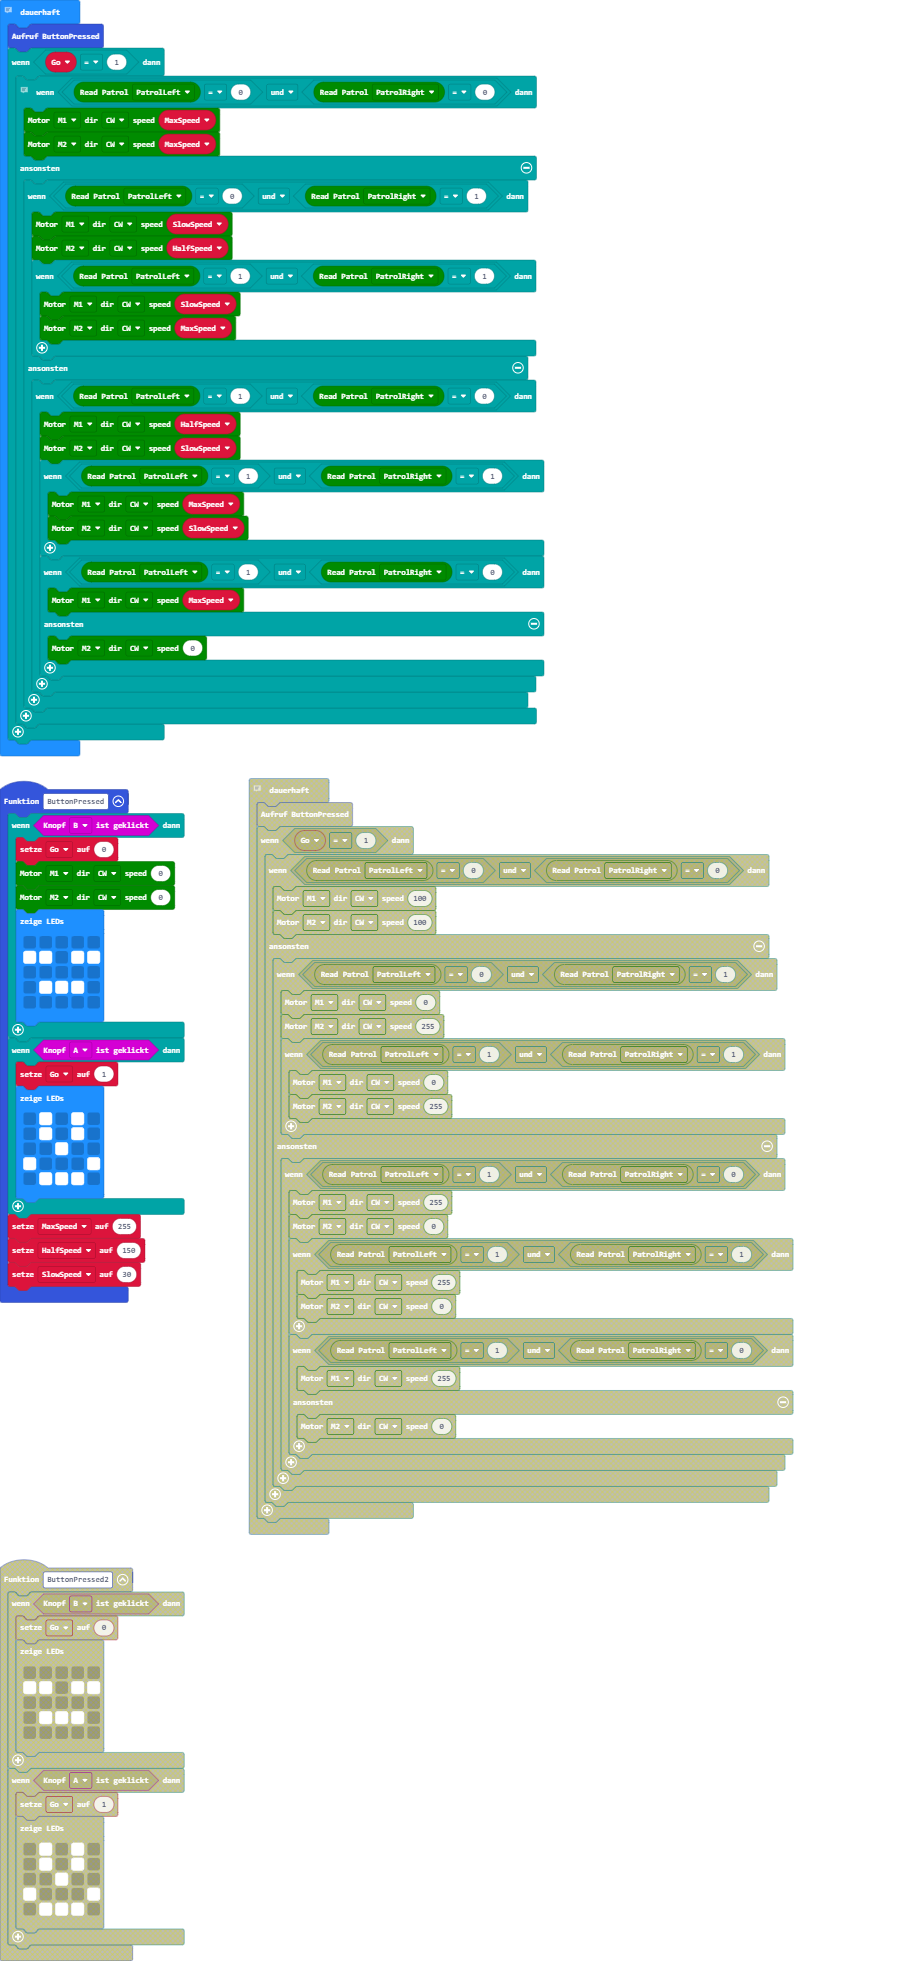
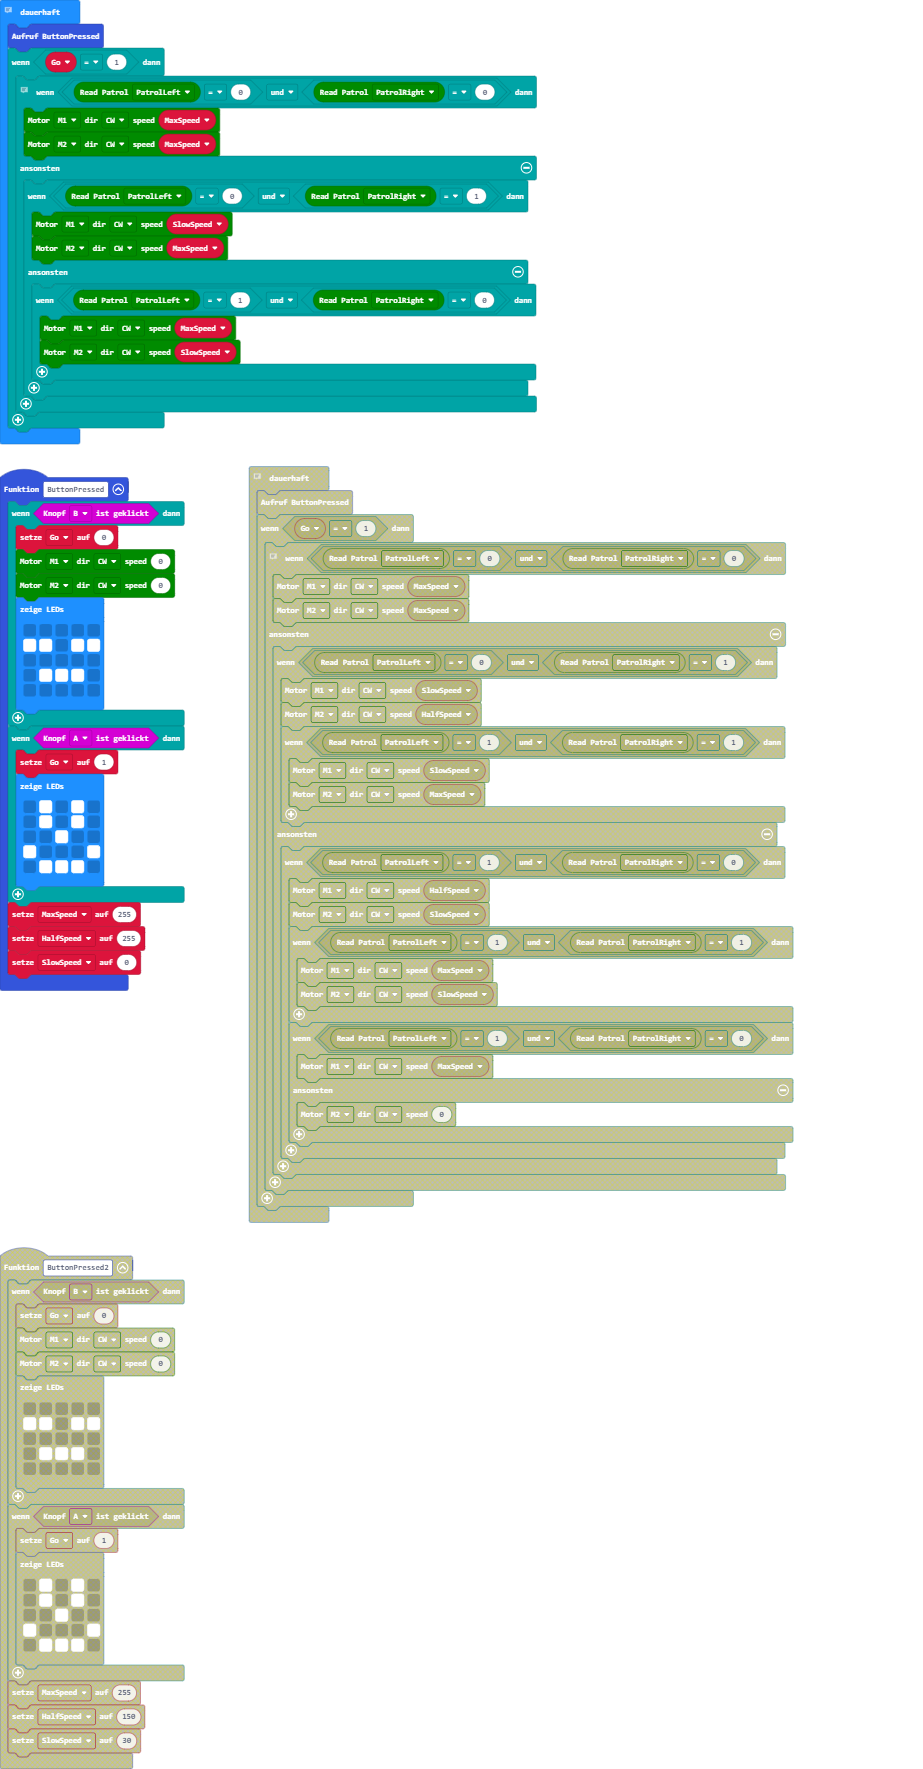
Aktualisiere pxt.json, main.blocks, main.ts

diff --git a/main.ts b/main.ts
@@ -11,7 +11,7 @@ function ButtonPressed () {
             . . . . .
             # # . # #
             . . . . .
-            . # # # .
+            . . . . .
             . . . . .
             `)
     }
@@ -26,41 +26,28 @@ function ButtonPressed () {
             `)
     }
     MaxSpeed = 255
-    HalfSpeed = 150
-    SlowSpeed = 30
+    HalfSpeed = 255
+    SlowSpeed = 0
 }
 // M1 Linkes Rad
-// M2 Rechts
+// M2 Rechtes Rad
 basic.forever(function () {
     ButtonPressed()
     if (Go == 1) {
-        // Beide weiss
+        // Beide Schwarz
         if (maqueen.readPatrol(maqueen.Patrol.PatrolLeft) == 0 && maqueen.readPatrol(maqueen.Patrol.PatrolRight) == 0) {
             maqueen.MotorRun(maqueen.aMotors.M1, maqueen.Dir.CW, MaxSpeed)
             maqueen.MotorRun(maqueen.aMotors.M2, maqueen.Dir.CW, MaxSpeed)
-        } else {
-            if (maqueen.readPatrol(maqueen.Patrol.PatrolLeft) == 0 && maqueen.readPatrol(maqueen.Patrol.PatrolRight) == 1) {
-                maqueen.MotorRun(maqueen.aMotors.M1, maqueen.Dir.CW, SlowSpeed)
-                maqueen.MotorRun(maqueen.aMotors.M2, maqueen.Dir.CW, HalfSpeed)
-                if (maqueen.readPatrol(maqueen.Patrol.PatrolLeft) == 1 && maqueen.readPatrol(maqueen.Patrol.PatrolRight) == 1) {
-                    maqueen.MotorRun(maqueen.aMotors.M1, maqueen.Dir.CW, SlowSpeed)
-                    maqueen.MotorRun(maqueen.aMotors.M2, maqueen.Dir.CW, MaxSpeed)
-                }
-            } else {
-                if (maqueen.readPatrol(maqueen.Patrol.PatrolLeft) == 1 && maqueen.readPatrol(maqueen.Patrol.PatrolRight) == 0) {
-                    maqueen.MotorRun(maqueen.aMotors.M1, maqueen.Dir.CW, HalfSpeed)
-                    maqueen.MotorRun(maqueen.aMotors.M2, maqueen.Dir.CW, SlowSpeed)
-                    if (maqueen.readPatrol(maqueen.Patrol.PatrolLeft) == 1 && maqueen.readPatrol(maqueen.Patrol.PatrolRight) == 1) {
-                        maqueen.MotorRun(maqueen.aMotors.M1, maqueen.Dir.CW, MaxSpeed)
-                        maqueen.MotorRun(maqueen.aMotors.M2, maqueen.Dir.CW, SlowSpeed)
-                    }
-                    if (maqueen.readPatrol(maqueen.Patrol.PatrolLeft) == 1 && maqueen.readPatrol(maqueen.Patrol.PatrolRight) == 0) {
-                        maqueen.MotorRun(maqueen.aMotors.M1, maqueen.Dir.CW, MaxSpeed)
-                    } else {
-                        maqueen.MotorRun(maqueen.aMotors.M2, maqueen.Dir.CW, 0)
-                    }
-                }
-            }
-        }
+        } 
+        // Linker Sensor Schwarz, rechtes Rad gibt Gas
+        if (maqueen.readPatrol(maqueen.Patrol.PatrolLeft) == 0 && maqueen.readPatrol(maqueen.Patrol.PatrolRight) == 1) {
+            maqueen.MotorRun(maqueen.aMotors.M1, maqueen.Dir.CW, SlowSpeed)
+            maqueen.MotorRun(maqueen.aMotors.M2, maqueen.Dir.CW, MaxSpeed)
+        } 
+        // Rechter Sensor Schwarz, linkes Rad gibt Gas
+        if (maqueen.readPatrol(maqueen.Patrol.PatrolLeft) == 1 && maqueen.readPatrol(maqueen.Patrol.PatrolRight) == 0) {
+            maqueen.MotorRun(maqueen.aMotors.M1, maqueen.Dir.CW, MaxSpeed)
+            maqueen.MotorRun(maqueen.aMotors.M2, maqueen.Dir.CW, SlowSpeed)
+        }        
     }
 })
